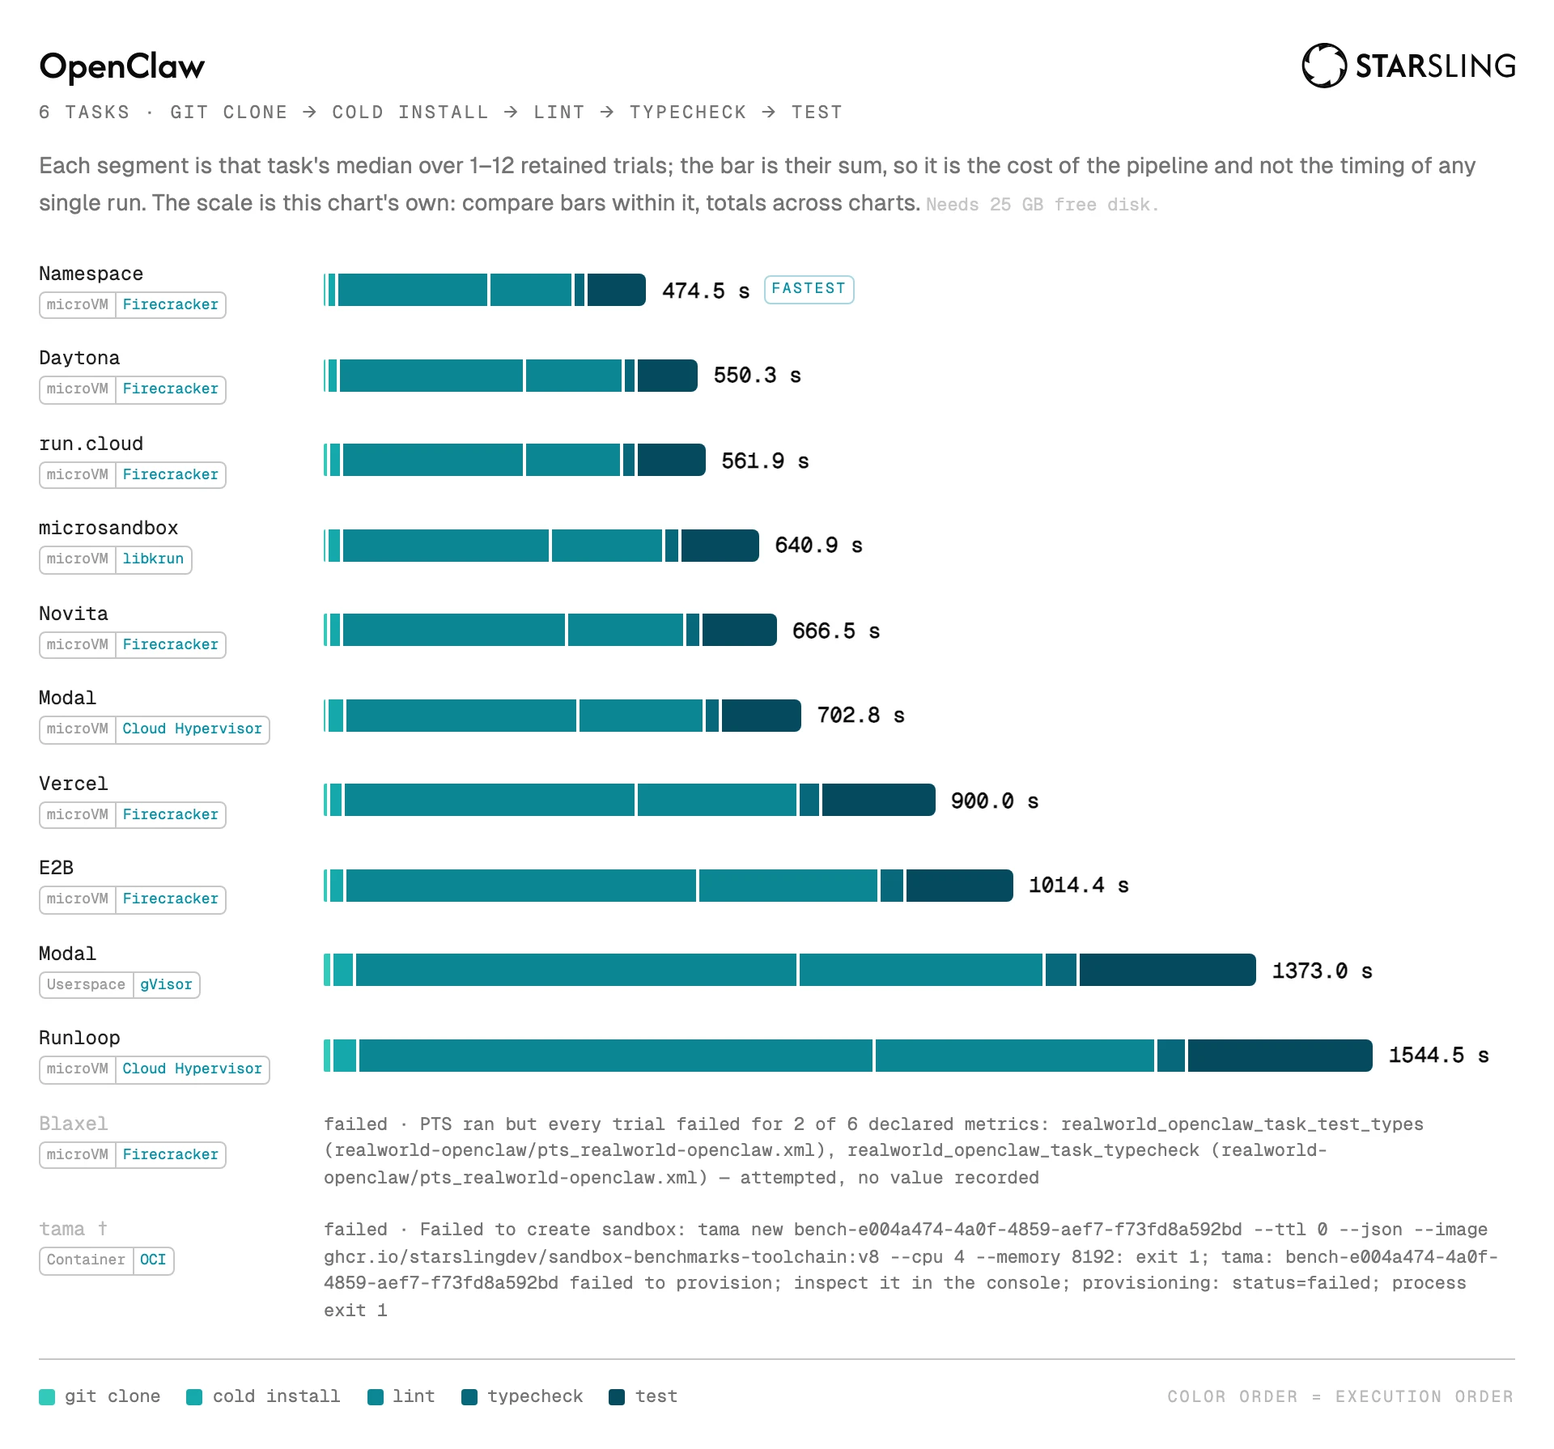
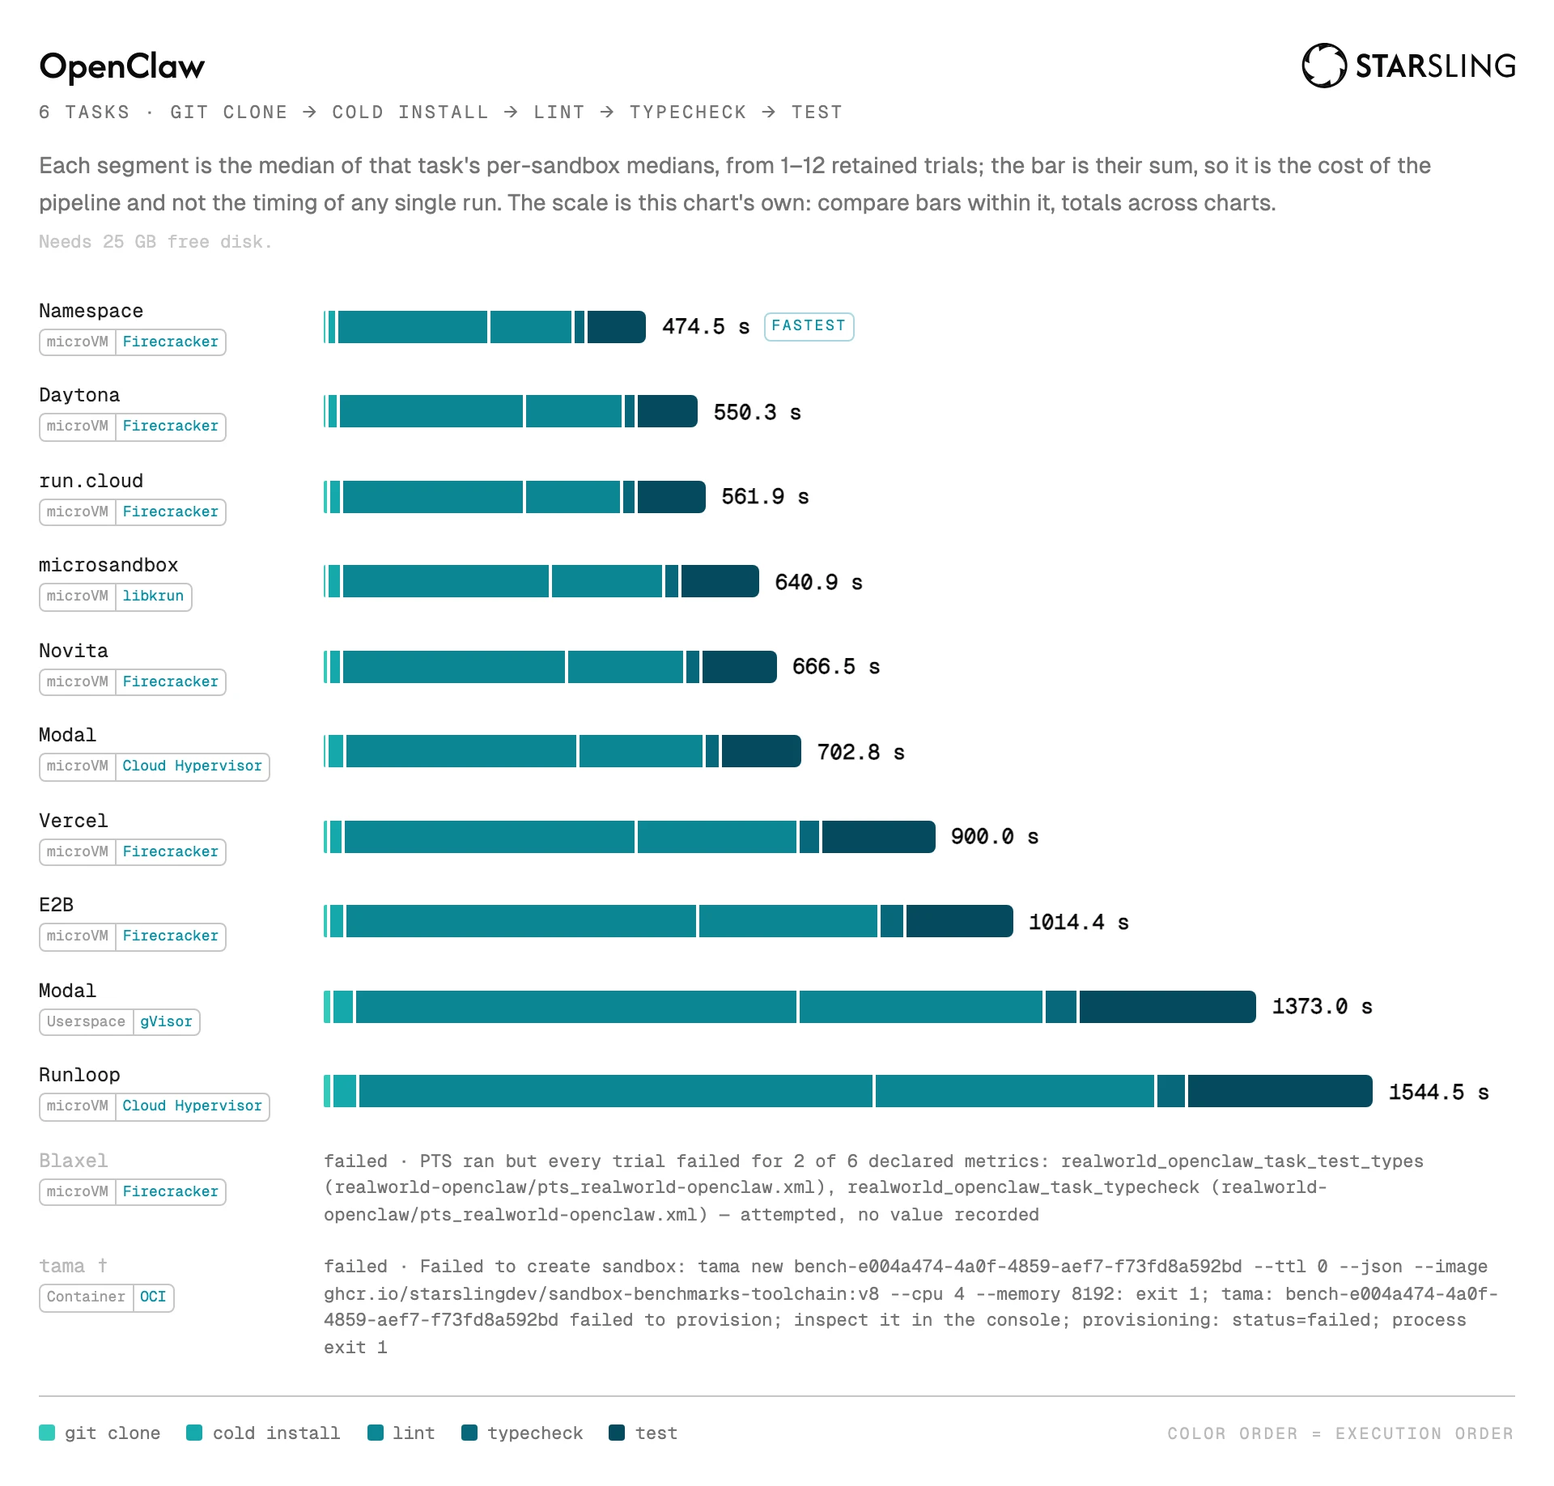
fix(schema): one estimand for every surface that prints a measured value (#484)
**HEADLINE CHART POLISH — architecture follow-ups (#482–#484)**

Stacked on the five-PR feature stack #477–#481; these three are the architecture cleanups from a review of that stack, each independently green (typecheck + full suite + figures):

1. #482 — schema: declare the ADR-0015 headline count once
2. #483 — results: two arms for a dataset, and parse the manifest that selects them
3. #484 — schema: one estimand for every surface that prints a measured value

Each follows ADR-0001 (arktype at the edges, types inferred) and makes a previously representable invalid state fail to compile.

↑ **This PR is 3/3**, based on #483.

---

"Which median does the board report" was decided in two production places under two
DIFFERENT conditions. The ranked tables took the median of per-sandbox medians whenever a
result carried replicates (leaderboard.ts). The pipeline charts took it only when the
dataset was POOLED, and otherwise printed `aggregates.p50`, the median of the pooled
trials (figures.ts). So one artifact could state a provider's value two ways, and the
document already claimed otherwise: its reading instructions say "median across sandboxes
(one machine, one vote)" unconditionally, in both arms.

The two agreed only because the realworld suites are k=1 BY DECLARATION (`suites.ts`: the
cold install/build IS the metric), and at one sample per sandbox a pooled percentile and a
median of per-sandbox medians are arithmetically identical. They are not identical in
[…]

diff --git a/packages/results/src/lib/figures.ts b/packages/results/src/lib/figures.ts
@@ -32,7 +32,7 @@ import {
 	pipelineChartHtml,
 } from "@sandbox-benchmarks/figures";
 import type { Run } from "@sandbox-benchmarks/schema";
-import { METRIC_CATALOG, PROVIDERS, SUITES, sandboxMedianOf } from "@sandbox-benchmarks/schema";
+import { METRIC_CATALOG, PROVIDERS, SUITES } from "@sandbox-benchmarks/schema";
 import type { Leaderboard, LeaderboardFigure, LeaderboardMetricFigure } from "./leaderboard.ts";
 import { buildLeaderboard, FIGURE_DIMENSION } from "./leaderboard.ts";
 import type { LeaderboardDataset } from "./leaderboard-datasets.ts";
@@ -69,11 +69,15 @@ export const FIGURE_DEVICE_SCALE = 2;
 /**
  * The paragraph under a chart's title.
  *
- * It states the two things the picture cannot: that a bar is a SUM OF MEDIANS rather than a
- * measured single run, and how many trials each of those medians rests on. Both matter for
+ * It states the two things the picture cannot: that a bar is a SUM OF PER-SANDBOX MEDIANS rather
+ * than a measured single run, and how many trials each of those medians rests on. Both matter for
  * reading the chart honestly — the segments add up to the bar by construction (that is what a
  * stacked bar means), which is exactly why the total is not the median of any pipeline that ever
  * executed, and saying so is cheaper than letting a reader assume otherwise.
+ *
+ * It names the estimand the ranked tables print (schema `reportedMedianOf`) because it IS the same
+ * one. It used to read "that task's median over N retained trials" — the pooled percentile the
+ * charts once used and the tables never did.
  *
  * `n` is read off the segments rather than from the suite registry's `defaultReplicas`: the
  * registry says what was REQUESTED, and a lost replicate shard makes the retained count smaller
@@ -83,7 +87,7 @@ export const FIGURE_DEVICE_SCALE = 2;
  * run, and the caption claimed it; now that each scales to its own slowest pipeline, a reader
  * comparing two charts must be told to read the totals rather than the lengths.
  */
-export function suiteFigureNote(suite: PipelineSuite, combined = false): string {
+export function suiteFigureNote(suite: PipelineSuite): string {
 	const counts = suite.bars.flatMap((bar) => bar.segments.map((segment) => segment.n));
 	const low = Math.min(...counts);
 	const high = Math.max(...counts);
@@ -98,10 +102,9 @@ export function suiteFigureNote(suite: PipelineSuite, combined = false): string 
 			: ` Tasks without recorded measurements in this run are excluded from all bars: ` +
 				`**${suite.droppedTasks.join("**, **")}**.`;
 	return (
-		(combined
-			? `Each segment is the median of that task's per-sandbox medians, from ${trials} retained ${plural}; the bar is their sum, `
-			: `Each segment is that task's median over ${trials} retained ${plural}; the bar is their sum, `) +
-		`so it is the cost of the pipeline and not the timing of any single run.${dropped}${scale}`
+		`Each segment is the median of that task's per-sandbox medians, from ${trials} retained ${plural}; ` +
+		`the bar is their sum, so it is the cost of the pipeline and not the timing of any single ` +
+		`run.${dropped}${scale}`
 	);
 }
 
@@ -116,22 +119,7 @@ export function suiteFigureNote(suite: PipelineSuite, combined = false): string 
  */
 export function benchmarkDataOf(run: LeaderboardDataset): RealworldFigureModel {
 	return buildRealworldFigureModel({
-		run: run.sources
-			? {
-					providers: run.providers.map((provider) => ({
-						...provider,
-						metrics: provider.metrics.map((metric) => ({
-							...metric,
-							aggregates: {
-								...metric.aggregates,
-								p50: metric.replicates
-									? sandboxMedianOf(metric.replicates.map((r) => r.samples))
-									: metric.aggregates.p50,
-							},
-						})),
-					})),
-				}
-			: run,
+		run,
 		metrics: METRIC_CATALOG,
 		providers: PROVIDERS.map((provider) => ({
 			id: provider.id,
@@ -321,10 +309,8 @@ export function renderLeaderboardFigureHtml(
 			buildPipelineChartModel(
 				suite,
 				data,
-				suiteFigureNote(suite, !!run.sources) +
-					(run.sources
-						? " Combined datasets: task estimates give each sandbox one vote; source coverage remains separate."
-						: ""),
+				suiteFigureNote(suite) +
+					(run.sources ? " Combined datasets: source coverage remains separate." : ""),
 			),
 		),
 	}));

diff --git a/packages/figures/src/model.ts b/packages/figures/src/model.ts
@@ -4,9 +4,11 @@
  *
  * The input is typed by `@sandbox-benchmarks/schema` — the workspace's one Run contract and
  * its metric/suite registries — so there is no parallel hand-written copy of either to drift
- * (the type-only imports cost nothing at runtime). The registries still arrive as ARGUMENTS
- * rather than being imported as values: that is what lets every test below run against a
- * synthetic run and a synthetic catalog instead of whatever the committed dataset contains.
+ * (the schema imports are type-only but for `reportedMedianOf`, which is imported as a value on
+ * purpose: passing the estimand in as an argument is what let the charts and the tables disagree).
+ * The REGISTRIES still arrive as arguments rather than being imported as values: that is what lets
+ * every test below run against a synthetic run and a synthetic catalog instead of whatever the
+ * committed dataset contains.
  *
  * This replaced a vendored copy of an upstream site's whole data layer (a hand-written
  * RunDoc shadow, a 449-line parse boundary for a document that never crosses a process
@@ -15,6 +17,7 @@
  * charts actually read; `packages/results` owns every other derivation over a Run.
  */
 import type { MetricDef, ProviderRun, Run, Suite } from "@sandbox-benchmarks/schema";
+import { reportedMedianOf } from "@sandbox-benchmarks/schema";
 import type { PhaseId } from "./phases.ts";
 import { phaseOfTask } from "./phases.ts";
 
@@ -212,8 +215,7 @@ export function buildRealworldFigureModel(input: FigureModelInput): RealworldFig
 	const metricsByProvider = new Map(
 		rendered.map((p) => [p.providerId, new Map(p.metrics.map((m) => [m.metricId, m]))]),
 	);
-	const aggregatesOf = (p: ProviderRun, id: string) =>
-		metricsByProvider.get(p.providerId)?.get(id)?.aggregates;
+	const resultOf = (p: ProviderRun, id: string) => metricsByProvider.get(p.providerId)?.get(id);
 
 	const requireLabel = (id: string): string => {
 		const label = labelOf.get(id);
@@ -231,7 +233,7 @@ export function buildRealworldFigureModel(input: FigureModelInput): RealworldFig
 			// The run's own exercised task set for this suite, in the suite's canonical
 			// (execution) order — a task nobody emitted is not a column.
 			const exercised = suite.metrics.filter((id) =>
-				rendered.some((p) => aggregatesOf(p, id) !== undefined),
+				rendered.some((p) => resultOf(p, id) !== undefined),
 			);
 			const firstTask = exercised[0];
 			if (firstTask === undefined) return null;
@@ -246,9 +248,17 @@ export function buildRealworldFigureModel(input: FigureModelInput): RealworldFig
 				// understated total as if it were comparable.
 				const segments: BarSegment[] = [];
 				for (const id of exercised) {
-					const a = aggregatesOf(p, id);
-					if (a === undefined) return [];
-					segments.push({ id, phase: phaseOfTask(id), p50: a.p50, n: a.n });
+					const result = resultOf(p, id);
+					if (result === undefined) return [];
+					// Read from the result rather than patched onto a copy of its aggregates by a caller: a
+					// patched `aggregates` carries a `p50` that no longer agrees with the `mean`/`stdev`/`n`
+					// beside it, and `n` is printed in the caption.
+					segments.push({
+						id,
+						phase: phaseOfTask(id),
+						p50: reportedMedianOf(result),
+						n: result.aggregates.n,
+					});
 				}
 				return [
 					{

diff --git a/packages/results/src/lib/leaderboard.ts b/packages/results/src/lib/leaderboard.ts
@@ -47,8 +47,8 @@ import {
 	METRIC_CATALOG,
 	mannWhitneyU,
 	providerReportedNothing,
+	reportedMedianOf,
 	SUITE_NAMES,
-	sandboxMedianOf,
 } from "@sandbox-benchmarks/schema";
 import type {
 	CombineDatasetsOptions,
@@ -111,6 +111,14 @@ export const LEADERBOARD_DIMENSION_ORDER: readonly Dimension[] = [
  * the renderer changes its mind.
  */
 export const FIGURE_DIMENSION: Dimension = "realworld";
+/**
+ * The phrase that marks a rendered board as POOLED rather than one published experiment.
+ *
+ * Exported because the artifact gate has to recognise it in a committed document, and reading the
+ * rendered prose is the only input that gate has. Rewording this heading without it would leave the
+ * gate matching a string nothing emits — silently passing the exact condition it exists to refuse.
+ */
+export const POOLED_BOARD_HEADING = "Combined dataset analysis";
 
 /**
  * One rendered suite chart the Markdown embeds — what the renderer needs in order to link a figure
@@ -540,8 +548,9 @@ function rankMetric(run: LeaderboardDataset, metric: MetricDef): LeaderboardRow[
 			// so the noisiest machine earned the most votes: on the committed data ρ(trials, within-sandbox
 			// CV) = 0.76, and one headline row published 20.99 from sandbox medians {18.87, 21.06, 18.95}
 			// because the 15-pass machine held 71% of the weight. The pooled Samples stay in the dataset as
-			// the raw evidence; they are no longer the ranking statistic.
-			value: replicates ? sandboxMedianOf(replicates) : result.aggregates.p50,
+			// the raw evidence; they are no longer the ranking statistic. `reportedMedianOf` owns this
+			// choice for every surface that prints a value.
+			value: reportedMedianOf(result),
 			rank: 0, // assigned after sort
 			// Seed from stable identity so a committed leaderboard is byte-identical on every regeneration —
 			// a Math.random() bootstrap would churn the diff on every run. The interval is the CLUSTER
@@ -1206,7 +1215,7 @@ export function renderLeaderboardMarkdown(
 		"",
 		...(board.sources
 			? [
-					"**Combined dataset analysis (not a new published experiment).**",
+					`**${POOLED_BOARD_HEADING} (not a new published experiment).**`,
 					...board.sources.map(
 						(source) =>
 							`Source ${runSourceLinks(source.runId)} · commit ${commitSourceLink(source.sha)} · dataset ${datasetSourceLink(source.runId)}${source.experiment?.partial ? ` · ${source.experiment.partial.complete}/${source.experiment.partial.planned} cells complete` : ""}`,

diff --git a/packages/schema/src/analysis.ts b/packages/schema/src/analysis.ts
@@ -1,6 +1,7 @@
 // Pure analysis over the Samples a Metric retains. Percentiles use linear interpolation between
 // order statistics (R-7, the numpy/Excel default) so Aggregates are stable across toolchains.
 import { type } from "arktype";
+import type { MetricResult } from "./run.ts";
 
 // Plain `"number"` accepts NaN/Infinity; the distribution fields must be finite, so a corrupt
 // Aggregates can't pass validation undetected. `n`'s `number.integer` already excludes both; `stdev`
@@ -421,6 +422,29 @@ function sandboxMedians(replicates: readonly (readonly number[])[]): number[] {
 export function sandboxMedianOf(replicates: readonly (readonly number[])[]): number {
 	assertReplicates("sandboxMedianOf", replicates);
 	return percentileOf(sandboxMedians(replicates), 0.5);
+}
+
+/**
+ * THE reported value for a measured Metric: {@link sandboxMedianOf} when the result carries replicate
+ * sandboxes, the pooled percentile when it is a single sandbox with no between-machine information.
+ *
+ * Every surface that prints a number for a result must call this. It exists because that choice used to
+ * be made twice — once for the ranked tables and once, under a different condition, for the pipeline
+ * charts — so one artifact could state a provider's value two ways. The two agreed only because the
+ * realworld suites are k=1 by declaration (`suites.ts`: the cold install/build IS the metric), which
+ * makes a pooled percentile and a median of per-sandbox medians arithmetically identical. On the
+ * synthetic suites, where PTS runs ≥2 trials per sandbox, they differ on most results.
+ *
+ * Takes a whole `MetricResult`, not the two fields it reads: TypeScript is structural, so a narrower
+ * parameter also admits the other `{ aggregates }` carriers in this repo — `LifecycleAggregate`, whose
+ * harness measurements have no replicates — and quietly hands them a pooled percentile under the name
+ * of the reported value. The type-only import is erased (`verbatimModuleSyntax`), so run.ts importing
+ * this module back is not a cycle.
+ */
+export function reportedMedianOf(result: MetricResult): number {
+	return result.replicates
+		? sandboxMedianOf(result.replicates.map((replicate) => replicate.samples))
+		: result.aggregates.p50;
 }
 
 /**

diff --git a/tooling/repo-checks/src/leaderboard-artifact-sync.test.ts b/tooling/repo-checks/src/leaderboard-artifact-sync.test.ts
@@ -26,6 +26,7 @@ import {
 	leaderboardFigures,
 	leaderboardMetricFigures,
 	metricFigureModelOf,
+	POOLED_BOARD_HEADING,
 	REPO_URL,
 	renderLeaderboardFigureHtml,
 	renderLeaderboardMarkdown,
@@ -421,7 +422,9 @@ function runIdOf(markdown: string): string {
  * Run would take the determinism test below down with it — silencing the check precisely in the
  * scenario it exists to catch (an artifact rendered from the gitignored `data/runs/`).
  */
-function loadCommittedRun(): {
+let cachedCommittedRun: CommittedRun | undefined;
+
+interface CommittedRun {
 	committed: string;
 	runId: string;
 	run: ReturnType<typeof parseRun>;
@@ -432,8 +435,31 @@ function loadCommittedRun(): {
 	 *  not byte-stable across machines, so pixel identity is unassertable in a gate that must pass
 	 *  on every contributor's machine; the update workflow is where pixels are authored. */
 	figures: LeaderboardFigure[];
-} {
+}
+
+/**
+ * Memoized lazily, never at module scope, for the reason the docblock above gives: a throw must
+ * surface as the failure of the test that asked for it. Sixteen call sites each re-read the 130 KB
+ * artifact and re-parsed the ~4 MB Run through arktype — ~23 ms and 4 MB of JSON apiece, for a value
+ * that cannot change within a run of this file.
+ */
+function loadCommittedRun(): CommittedRun {
+	cachedCommittedRun ??= readCommittedRun();
+	return cachedCommittedRun;
+}
+
+function readCommittedRun(): CommittedRun {
 	const committed = readFileSync(ARTIFACT, "utf8");
+	// This gate audits ONE published experiment, and the audit below re-derives neither the pooled
+	// header nor the composite ranking seed. `leaderboard manifest.json LEADERBOARD.md` will happily
+	// write a pooled board here, which without this surfaces as an unexplained whole-document diff.
+	if (committed.includes(POOLED_BOARD_HEADING)) {
+		throw new Error(
+			`LEADERBOARD.md was rendered from a POOLED dataset (its header says "${POOLED_BOARD_HEADING}"). ` +
+				"The committed artifact must come from a single published Run; render exploratory " +
+				"combinations to a scratch directory instead.",
+		);
+	}
 	const runId = runIdOf(committed);
 	const source = runFile(runId);
 	try {

diff --git a/packages/results/src/lib/stability.ts b/packages/results/src/lib/stability.ts
@@ -12,7 +12,12 @@
  * SDK-free: the Run model + the Catalog (for each metric's Direction) only.
  */
 import type { Direction, Run } from "@sandbox-benchmarks/schema";
-import { getMetric, isDerivedMetric, LEGACY_PROVIDER_ALIASES } from "@sandbox-benchmarks/schema";
+import {
+	getMetric,
+	isDerivedMetric,
+	LEGACY_PROVIDER_ALIASES,
+	reportedMedianOf,
+} from "@sandbox-benchmarks/schema";
 import { type } from "arktype";
 
 /** The default noise threshold (relative): movements within ±10% are treated as stable. */
@@ -55,7 +60,7 @@ export interface MetricShift {
 	providerId: string;
 	metricId: string;
 	direction: Direction;
-	/** Representative (p50) values in the previous and current Run. */
+	/** The reported value (`reportedMedianOf`) in the previous and current Run. */
 	previous: number;
 	current: number;
 	/** Signed relative change `(current - previous) / previous`; `NaN` when the pair is incomparable. */
@@ -113,8 +118,12 @@ export function compareRuns(
 				providerId: cur.providerId,
 				metricId: curMetric.metricId,
 				direction,
-				previous: prevMetric.aggregates.p50,
-				current: curMetric.aggregates.p50,
+				// The same estimand every other surface reports (`reportedMedianOf`), not the pooled
+				// percentile. Watching `aggregates.p50` here meant the drift gate compared — and
+				// thresholded on — a statistic no published surface prints: on a replicated synthetic
+				// metric the board ranks the per-sandbox median while this gate saw the pooled one.
+				previous: reportedMedianOf(prevMetric),
+				current: reportedMedianOf(curMetric),
 			};
 
 			// Apples-to-apples only when the profile version AND option arguments are unchanged.

diff --git a/packages/schema/src/run.ts b/packages/schema/src/run.ts
@@ -32,8 +32,12 @@ const ptsSampleSourceSchema = type("'raw-string' | 'aggregate-value'");
 /**
  * One replicate sandbox's contribution to a Metric: the raw per-pass Samples that one (provider, suite)
  * replicate produced, tagged with its {@link index}. Present only on a Metric merged from ≥2 replicate
- * shards ({@link MetricResult.replicates}); the pooled `samples`/`aggregates` above stay the ranking
- * value, this is the between-sandbox breakdown the hierarchical-bootstrap inference reads.
+ * shards ({@link MetricResult.replicates}).
+ *
+ * When these are present they ARE the reported value: `reportedMedianOf` takes the median of their
+ * per-sandbox medians, one machine one vote. The pooled `samples`/`aggregates` above remain the raw
+ * evidence — and the reported value where a result has no replicates — but they are no longer the
+ * ranking statistic.
  */
 export const metricReplicateSchema = type({
 	// The replicate sandbox this slice came from (the `--replicate` index the shard was run under).

diff --git a/packages/results/src/lib/figures.test.ts b/packages/results/src/lib/figures.test.ts
@@ -227,7 +227,7 @@ describe("suiteFigureNote", () => {
 					[12, 12],
 				]),
 			),
-		).toContain("median over 12 retained trials");
+		).toContain("per-sandbox medians, from 12 retained trials");
 	});
 
 	it("prints a range when they do not, rather than one task's count as if it were the suite's", () => {
@@ -240,7 +240,7 @@ describe("suiteFigureNote", () => {
 					[12, 12],
 				]),
 			),
-		).toContain("median over 9–12 retained trials");
+		).toContain("per-sandbox medians, from 9–12 retained trials");
 	});
 
 	it("says the bar is a sum of medians, not a measured run", () => {

diff --git a/packages/results/src/index.ts b/packages/results/src/index.ts
@@ -72,6 +72,7 @@ export {
 	type LeaderboardMetric,
 	type LeaderboardMetricFigure,
 	type LeaderboardRow,
+	POOLED_BOARD_HEADING,
 	type ProviderRosterEntry,
 	REPO_URL,
 	renderLeaderboardMarkdown,
